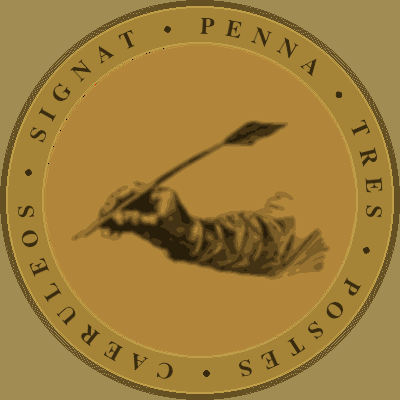
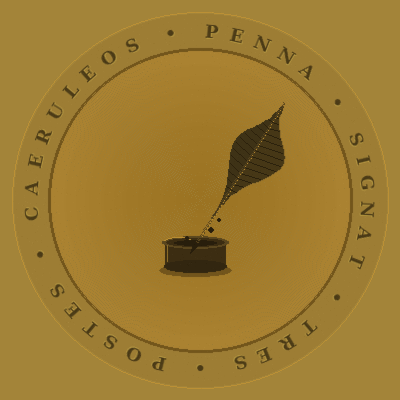
Ending update

diff --git a/Dream Street Shuffle.html b/Dream Street Shuffle.html
@@ -3348,6 +3348,18 @@ animation: coinReveal 0.6s ease 2.2s forwards;
 }
 @keyframes coinReveal {
 to { opacity: 1; }
+}
+
+/* ===== WHITE PAGE (good ending) ===== */
+tw-passage[tags~="white-page"],
+tw-story[tags~="white-page"] {
+  background: #fff !important;
+  color: #111 !important;
+}
+tw-passage[tags~="white-page"] tw-link,
+tw-passage[tags~="white-page"] .enchantment-link {
+  color: #111 !important;
+  border-bottom-color: #111 !important;
 }</style><script role="script" id="twine-user-script" type="text/twine-javascript">// ====== BROWSER BACK BUTTON (PLAYTESTING) ======
 var _dssLastPassage = '';
 setInterval(function() {
@@ -71140,8 +71152,9 @@ Steve Lackland gave you a password: //Valletta//. For Lackland&#x27;s back room.
 &lt;/div&gt;</tw-passagedata>
 <tw-passagedata pid="11" name="A Doorway on Dean Street" position="700,550" size="100,100">(set: $hadBreather to true)\
 (set: $confidence to $confidence + 12)\
-[placeholder]
-[[Dream On|Dean Street]]</tw-passagedata>
+The coast is clear so you spew up your guts with the tact of a bulimic starlette. Well done. You feel much better for that.
+
+[[Back to Dean Street|Dean Street]]</tw-passagedata>
 <tw-passagedata pid="12" name="Alba Display" position="900,50" size="100,100">(if: $albaRevealed is true)[\
 (set: _count to 0)\
 (if: $alba contains $alba1)[(set: _count to _count + 1)]
@@ -71260,6 +71273,9 @@ You surface into Dean Street like the ascent of man, having something, at least,
 
 [[Dean Street|Dean Street]]
 &lt;/div&gt;</tw-passagedata>
+<tw-passagedata pid="113" name="White page" tags="white-page" position="1700,150" size="100,100">EXPLICIT LIBER EST.
+
+[[PLUS. ULTRA.|Dawn]]</tw-passagedata>
 <tw-passagedata pid="25" name="Black page" position="1700,200" size="100,100">EXPLICIT LIBER EST.
 
 [[PLUS. ULTRA.|Dawn]]</tw-passagedata>
@@ -71461,12 +71477,15 @@ Quiet Frankie still hasn&#x27;t looked up but Ashton Granger has; she stops dood
 [[Try to run for the stairs|Fight starts]]
 [[Stand your ground|Stand your ground]]
 &lt;/div&gt;</tw-passagedata>
+<tw-passagedata pid="112" name="Alba Complete" position="1550,50" size="100,100">[placeholder]
+
+[[Approach the tower|Approach Centre Point]]</tw-passagedata>
 <tw-passagedata pid="39" name="Late Lily" position="1600,50" size="100,100">You see yourself walking to meet you, he looks at you, with a pitying grin, then turns and heads, quickly, towards Centre Point.
 
 [[Follow him|Approach Centre Point]]</tw-passagedata>
-<tw-passagedata pid="40" name="Centre Point" position="1650,75" size="100,100">*
+<tw-passagedata pid="40" name="Centre Point" position="1650,75" size="100,100">(if: ($alba contains $alba1) and ($alba contains $alba2) and ($alba contains $alba3))[(goto: &quot;White page&quot;)](else:)[*
 
-[[Go to Dawn|Dawn]]</tw-passagedata>
+[[Go to Dawn|Dawn]]]</tw-passagedata>
 <tw-passagedata pid="41" name="Dawn" position="1700,100" size="100,100">(if: ($alba contains $alba1) and ($alba contains $alba2) and ($alba contains $alba3))[It is as if you&#x27;ve woken from anaesthetic.
 
 You are standing at the corner of Dean Street and Old Compton Street, watching the light change again like it hasn&#x27;t changed for a whole black night. The plane of the eastern sky is cobalt first, then brassy and, at length, light in matter and in aspect, like a lifted weight.
@@ -71520,7 +71539,7 @@ Go home, boy.
 (if: $sobriety &gt; 100)[(set: $sobriety to 100)]
 (if: $sobriety &lt; 0)[(set: $sobriety to 0)]
 (if: $sobriety &lt;= 0 and $haunts&#x27;s length &gt;= 3)[(set: $coachUrgent to true)](else-if: $sobriety &lt;= 0)[(set: $sobriety to 5)//You stagger. Nearly fell. Catch yourself on a lamppost. The street blurs then steadies. You need to keep it together.//]
-(if: $confidence &lt;= 5 and not (($alba contains $alba1) and ($alba contains $alba2) and ($alba contains $alba3)))[[[Give up on the book|No more]]]
+(set: _towerReady to ($alba contains $alba1) and ($alba contains $alba2) and ($alba contains $alba3))\
 (if: $wasBeaten is true and $visitedInterval is true)[&lt;span class=&quot;fetch-glimpse&quot;&gt;You see him then: yourself, walking ahead of you down Greek Street toward Centre Point. He does not look back. He walks the way a man walks when he has made a decision. You know where he is going. You have always known.&lt;/span&gt;]
 (if: $returns &gt;= 7 and $afterMidnight is false)[(set: $afterMidnight to true)]
 }
@@ -71538,55 +71557,56 @@ In your bag, you have //(print: $bookTitle)//, your novel, in manuscript. You ne
 (if: $haunts&#x27;s length &gt;= 5)[Something shifts again. Eyes meet you and doors open like they used to. Keep on.
 ](else-if: $haunts&#x27;s length &gt;= 3)[Something shifts. The faces start to know your face again. A girl at the French waves through the reeded glass. It&#x27;s beginning to let you in.
 ](if: $metRed is true)[\
-(if: $coachUrgent is true)[&lt;div class=&quot;choice-box&quot;&gt;You can&#x27;t see straight. The pavement sways beneath you like the deck of a ship. There is only one door you can find.
+(if: _towerReady)[&lt;div class=&quot;choice-box&quot;&gt;&lt;span class=&quot;guided-link&quot;&gt;[[The dawn is coming|Alba Complete]]&lt;/span&gt;&lt;/div&gt;](else-if: $coachUrgent is true)[&lt;div class=&quot;choice-box&quot;&gt;You can&#x27;t see straight. The pavement sways beneath you like the deck of a ship. There is only one door you can find.
 
 &lt;span class=&quot;guided-link&quot;&gt;[[The Coach and Horses|Coach and Horses lock]]&lt;/span&gt;&lt;/div&gt;](else:)[Where now?]
-(if: $coachUrgent is false and not ($haunts contains $haunt2))[[[To The French|Approach The French]]
-](if: $coachUrgent is false and ($haunts contains $haunt2))[&lt;span class=&quot;greyed-out&quot;&gt;The French &amp;#91;DONE FOR TONIGHT&amp;#93;&lt;/span&gt;
+(if: $coachUrgent is false and _towerReady is false and not ($haunts contains $haunt2))[[[To The French|Approach The French]]
+](if: $coachUrgent is false and _towerReady is false and ($haunts contains $haunt2))[&lt;span class=&quot;greyed-out&quot;&gt;The French &amp;#91;DONE FOR TONIGHT&amp;#93;&lt;/span&gt;
 ]\
-(if: $coachUrgent is false and $visited&#x27;s French is false and $returns &gt;= 2)[&lt;span class=&quot;greyed-out&quot;&gt;The Colony Room&lt;/span&gt;
+(if: $coachUrgent is false and _towerReady is false and $visited&#x27;s French is false and $returns &gt;= 2)[&lt;span class=&quot;greyed-out&quot;&gt;The Colony Room&lt;/span&gt;
 ]\
-(if: $coachUrgent is false and $visited&#x27;s French is true and $hadPhoneCall is true and $metCritic is false)[[[The Pillars — there was someone you wanted to talk to|Maritime interlude]]
-](else-if: $coachUrgent is false and $visited&#x27;s French is true)[[[To The Pillars of Hercules|Maritime interlude]]
+(if: $coachUrgent is false and _towerReady is false and $visited&#x27;s French is true and $hadPhoneCall is true and $metCritic is false)[[[The Pillars — there was someone you wanted to talk to|Maritime interlude]]
+](else-if: $coachUrgent is false and _towerReady is false and $visited&#x27;s French is true)[[[To The Pillars of Hercules|Maritime interlude]]
 ]\
-(if: $coachUrgent is false and $visited&#x27;s French is true)[[[Try the Colony Room|Approach The Colony Room]]
+(if: $coachUrgent is false and _towerReady is false and $visited&#x27;s French is true)[[[Try the Colony Room|Approach The Colony Room]]
 ]\
-(if: $coachUrgent is false and $knowsRonnies is true and $completedSetlist is false)[[[Hear the jazz at Ronnie Scott&#x27;s|Ronnie Scott&#x27;s]]
+(if: $coachUrgent is false and _towerReady is false and $knowsRonnies is true and $completedSetlist is false)[[[Hear the jazz at Ronnie Scott&#x27;s|Ronnie Scott&#x27;s]]
 ]\
-(if: $coachUrgent is false and $knowsRonnies is true and $completedSetlist is true and ($ronniesLastOrders is false))[(set: $ronniesLastOrders to true)[[Ronnie Scott&#x27;s &amp;#91;LAST ORDERS&amp;#93;|Ronnie Scott&#x27;s]]
+(if: $coachUrgent is false and _towerReady is false and $knowsRonnies is true and $completedSetlist is true and ($ronniesLastOrders is false))[(set: $ronniesLastOrders to true)[[Ronnie Scott&#x27;s &amp;#91;LAST ORDERS&amp;#93;|Ronnie Scott&#x27;s]]
 ]\
-(if: $coachUrgent is false and $knowsRonnies is true and $completedSetlist is true and $ronniesLastOrders is true)[&lt;span class=&quot;greyed-out&quot;&gt;Ronnie Scott&#x27;s &amp;#91;CLOSED&amp;#93;&lt;/span&gt;
+(if: $coachUrgent is false and _towerReady is false and $knowsRonnies is true and $completedSetlist is true and $ronniesLastOrders is true)[&lt;span class=&quot;greyed-out&quot;&gt;Ronnie Scott&#x27;s &amp;#91;CLOSED&amp;#93;&lt;/span&gt;
 ]\
-(if: $coachUrgent is false and $knowsLackland is true and $knowsCopperSecret is true)[[[Go to Lackland&#x27;s Office|Approach Lacklands Office]]
-](else-if: $coachUrgent is false and $knowsLackland is true)[&lt;span class=&quot;greyed-out&quot;&gt;Lackland&#x27;s Office &amp;#91;NOT NOW. TRY ELSEWHERE&amp;#93;&lt;/span&gt;
+(if: $coachUrgent is false and _towerReady is false and $knowsLackland is true and $knowsCopperSecret is true)[[[Go to Lackland&#x27;s Office|Approach Lacklands Office]]
+](else-if: $coachUrgent is false and _towerReady is false and $knowsLackland is true)[&lt;span class=&quot;greyed-out&quot;&gt;Lackland&#x27;s Office &amp;#91;NOT NOW. TRY ELSEWHERE&amp;#93;&lt;/span&gt;
 ]\
-(if: $coachUrgent is false and $knowsCecilCourt is true and $hasMissingPage is true and $returnedPage is false)[[[Return the page to O&#x27;Flatterly|O&#x27;Flatterly introduction]]
-](else-if: $coachUrgent is false and $knowsCecilCourt is true and $knowsAboutPage is true and $returnedPage is false)[[[Cecil Court|Cecil Court]]
-](else-if: $coachUrgent is false and $knowsCecilCourt is true and $returnedPage is false)[[[Visit the antiquarian in Cecil Court|Cecil Court Approach]]
-](if: $coachUrgent is false and $returnedPage is true and ($cecilLastOrders is false))[(set: $cecilLastOrders to true)[[Cecil Court &amp;#91;LAST ORDERS&amp;#93;|Cecil Court]]
+(if: $coachUrgent is false and _towerReady is false and $knowsCecilCourt is true and $hasMissingPage is true and $returnedPage is false)[[[Return the page to O&#x27;Flatterly|O&#x27;Flatterly introduction]]
+](else-if: $coachUrgent is false and _towerReady is false and $knowsCecilCourt is true and $knowsAboutPage is true and $returnedPage is false)[[[Cecil Court|Cecil Court]]
+](else-if: $coachUrgent is false and _towerReady is false and $knowsCecilCourt is true and $returnedPage is false)[[[Visit the antiquarian in Cecil Court|Cecil Court Approach]]
+](if: $coachUrgent is false and _towerReady is false and $returnedPage is true and ($cecilLastOrders is false))[(set: $cecilLastOrders to true)[[Cecil Court &amp;#91;LAST ORDERS&amp;#93;|Cecil Court]]
 ]\
-(if: $coachUrgent is false and $returnedPage is true and $cecilLastOrders is true)[&lt;span class=&quot;greyed-out&quot;&gt;Cecil Court &amp;#91;CLOSED&amp;#93;&lt;/span&gt;
+(if: $coachUrgent is false and _towerReady is false and $returnedPage is true and $cecilLastOrders is true)[&lt;span class=&quot;greyed-out&quot;&gt;Cecil Court &amp;#91;CLOSED&amp;#93;&lt;/span&gt;
 ]\
-(if: $coachUrgent is false and $hasTrishaMatchbook is true and not ($haunts contains $haunt8))[[[Try Trisha&#x27;s|Failure: Trisha&#x27;s]]
-](if: $coachUrgent is false and ($haunts contains $haunt8) and ($trishasLastOrders is false))[(set: $trishasLastOrders to true)[[Trisha&#x27;s &amp;#91;LAST ORDERS&amp;#93;|Failure: Trisha&#x27;s]]
+(if: $coachUrgent is false and _towerReady is false and $hasTrishaMatchbook is true and not ($haunts contains $haunt8))[[[Try Trisha&#x27;s|Failure: Trisha&#x27;s]]
+](if: $coachUrgent is false and _towerReady is false and ($haunts contains $haunt8) and ($trishasLastOrders is false))[(set: $trishasLastOrders to true)[[Trisha&#x27;s &amp;#91;LAST ORDERS&amp;#93;|Failure: Trisha&#x27;s]]
 ]\
-(if: $coachUrgent is false and ($haunts contains $haunt8) and $trishasLastOrders is true)[&lt;span class=&quot;greyed-out&quot;&gt;Trisha&#x27;s &amp;#91;CLOSED&amp;#93;&lt;/span&gt;
+(if: $coachUrgent is false and _towerReady is false and ($haunts contains $haunt8) and $trishasLastOrders is true)[&lt;span class=&quot;greyed-out&quot;&gt;Trisha&#x27;s &amp;#91;CLOSED&amp;#93;&lt;/span&gt;
 ]\
-(if: ($alba contains $alba1) and ($alba contains $alba2) and not ($alba contains $alba3))[&lt;div class=&quot;choice-box&quot;&gt;&lt;span class=&quot;guided-link&quot;&gt;[[The voice|Late Lily]]&lt;/span&gt;&lt;/div&gt;
+(if: _towerReady is false and $coachUrgent is false and ($alba contains $alba1) and ($alba contains $alba2) and not ($alba contains $alba3))[&lt;div class=&quot;choice-box&quot;&gt;&lt;span class=&quot;guided-link&quot;&gt;[[The voice|Late Lily]]&lt;/span&gt;&lt;/div&gt;
 ]]
-(else:)[Someone&#x27;s on the corner.
+(else-if: _towerReady is false and $coachUrgent is false)[Someone&#x27;s on the corner.
 
 [[See who&#x27;s there|Approach The Ginger Light]]]
-(if: $confidence &lt; 40 and $hadBreather is false and $visited&#x27;s Pillars is true)[&lt;div class=&quot;choice-box&quot;&gt;You&#x27;re feeling worn down. There&#x27;s a quiet doorway nearby.
+(if: _towerReady is false and $coachUrgent is false and $confidence &lt; 40 and $hadBreather is false and $visited&#x27;s Pillars is true)[&lt;div class=&quot;choice-box&quot;&gt;You&#x27;re feeling worn down. There&#x27;s a quiet doorway nearby.
 
-[[Step into the doorway|A Doorway on Dean Street]]&lt;/div&gt;](else-if: $hadBreather is true)[&lt;span class=&quot;greyed-out&quot;&gt;Step into the doorway&lt;/span&gt;
+[[Step into the doorway|A Doorway on Dean Street]]&lt;/div&gt;](else-if: _towerReady is false and $coachUrgent is false and $hadBreather is true)[&lt;span class=&quot;greyed-out&quot;&gt;Step into the doorway&lt;/span&gt;
 ]\
-(if: $confidence &lt; 50 and $sobriety &lt; 50 and $hadChippy is false and ($confidence &gt;= 40 or $hadBreather is true))[&lt;div class=&quot;choice-box&quot;&gt;You&#x27;re in a bad way. But there&#x27;s a place you know, down a side street. The Chinese Fish and Chips.
+(if: _towerReady is false and $coachUrgent is false and $confidence &lt; 50 and $sobriety &lt; 50 and $hadChippy is false and ($confidence &gt;= 40 or $hadBreather is true))[&lt;div class=&quot;choice-box&quot;&gt;You&#x27;re in a bad way. But there&#x27;s a place you know, down a side street. The Chinese Fish and Chips.
 
-[[Get something to eat|Chinese Fish and Chips]]&lt;/div&gt;](else-if: $hadChippy is true)[&lt;span class=&quot;greyed-out&quot;&gt;Get something to eat&lt;/span&gt;
+[[Get something to eat|Chinese Fish and Chips]]&lt;/div&gt;](else-if: _towerReady is false and $coachUrgent is false and $hadChippy is true)[&lt;span class=&quot;greyed-out&quot;&gt;Get something to eat&lt;/span&gt;
 ]\
-(set: $notebookUnlocked to true)\
-(if: ($alba contains $alba1) and ($alba contains $alba2) and ($alba contains $alba3))[[[Go to Dawn|Dawn]]]</tw-passagedata>
+(if: _towerReady is false and $coachUrgent is false and $confidence &lt;= 5)[[[Give up on the night|No more]]
+]\
+(set: $notebookUnlocked to true)\</tw-passagedata>
 <tw-passagedata pid="43" name="Dido" position="100,1700" size="100,100">&lt;svg class=&quot;carthage-pyre&quot; viewBox=&quot;0 0 500 95&quot; width=&quot;100%&quot; height=&quot;95&quot; preserveAspectRatio=&quot;none&quot;&gt;&lt;defs&gt;&lt;radialGradient id=&quot;cpGlow&quot; cx=&quot;50%&quot; cy=&quot;85%&quot; r=&quot;70%&quot;&gt;&lt;stop offset=&quot;0%&quot; stop-color=&quot;#d4600a&quot; stop-opacity=&quot;0.4&quot;/&gt;&lt;stop offset=&quot;30%&quot; stop-color=&quot;#c84a08&quot; stop-opacity=&quot;0.2&quot;/&gt;&lt;stop offset=&quot;60%&quot; stop-color=&quot;#401808&quot; stop-opacity=&quot;0.08&quot;/&gt;&lt;stop offset=&quot;100%&quot; stop-color=&quot;#0a0a12&quot; stop-opacity=&quot;0&quot;/&gt;&lt;/radialGradient&gt;&lt;linearGradient id=&quot;cpTopFade&quot; x1=&quot;0&quot; y1=&quot;0&quot; x2=&quot;0&quot; y2=&quot;1&quot;&gt;&lt;stop offset=&quot;0%&quot; stop-color=&quot;#0a0a12&quot; stop-opacity=&quot;1&quot;/&gt;&lt;stop offset=&quot;35%&quot; stop-color=&quot;#0a0a12&quot; stop-opacity=&quot;0.6&quot;/&gt;&lt;stop offset=&quot;60%&quot; stop-color=&quot;#0a0a12&quot; stop-opacity=&quot;0&quot;/&gt;&lt;stop offset=&quot;100%&quot; stop-color=&quot;#0a0a12&quot; stop-opacity=&quot;0&quot;/&gt;&lt;/linearGradient&gt;&lt;linearGradient id=&quot;cpFade&quot; x1=&quot;0&quot; x2=&quot;1&quot;&gt;&lt;stop offset=&quot;0%&quot; stop-color=&quot;#0a0a12&quot; stop-opacity=&quot;1&quot;/&gt;&lt;stop offset=&quot;8%&quot; stop-color=&quot;#0a0a12&quot; stop-opacity=&quot;0&quot;/&gt;&lt;stop offset=&quot;92%&quot; stop-color=&quot;#0a0a12&quot; stop-opacity=&quot;0&quot;/&gt;&lt;stop offset=&quot;100%&quot; stop-color=&quot;#0a0a12&quot; stop-opacity=&quot;1&quot;/&gt;&lt;/linearGradient&gt;&lt;linearGradient id=&quot;cpGround&quot; x1=&quot;0&quot; y1=&quot;0&quot; x2=&quot;0&quot; y2=&quot;1&quot;&gt;&lt;stop offset=&quot;0%&quot; stop-color=&quot;#3a2010&quot; stop-opacity=&quot;0.5&quot;/&gt;&lt;stop offset=&quot;100%&quot; stop-color=&quot;#1a0a08&quot; stop-opacity=&quot;0.3&quot;/&gt;&lt;/linearGradient&gt;&lt;/defs&gt;&lt;rect x=&quot;0&quot; y=&quot;77&quot; width=&quot;500&quot; height=&quot;18&quot; fill=&quot;url(#cpGround)&quot;/&gt;&lt;rect x=&quot;0&quot; y=&quot;0&quot; width=&quot;500&quot; height=&quot;95&quot; fill=&quot;url(#cpGlow)&quot;/&gt;&lt;rect x=&quot;195&quot; y=&quot;77&quot; width=&quot;110&quot; height=&quot;6&quot; rx=&quot;1&quot; fill=&quot;#3a2818&quot; opacity=&quot;0.6&quot;/&gt;&lt;rect x=&quot;205&quot; y=&quot;72&quot; width=&quot;90&quot; height=&quot;6&quot; rx=&quot;1&quot; fill=&quot;#4a3020&quot; opacity=&quot;0.5&quot;/&gt;&lt;rect x=&quot;215&quot; y=&quot;67&quot; width=&quot;70&quot; height=&quot;6&quot; rx=&quot;1&quot; fill=&quot;#5a3828&quot; opacity=&quot;0.45&quot;/&gt;&lt;path d=&quot;M220,67 Q210,50 225,28 Q230,40 240,18 Q248,35 250,8 Q255,30 262,14 Q268,38 275,22 Q280,45 285,67Z&quot; fill=&quot;#8a2800&quot; opacity=&quot;0.35&quot;/&gt;&lt;path d=&quot;M225,67 Q218,48 232,22 Q238,36 245,10 Q250,28 255,6 Q260,25 268,16 Q272,40 278,67Z&quot; fill=&quot;#c04808&quot; opacity=&quot;0.45&quot;/&gt;&lt;path d=&quot;M230,67 Q224,45 237,18 Q242,32 248,8 Q253,28 258,12 Q264,35 270,67Z&quot; fill=&quot;#d4600a&quot; opacity=&quot;0.5&quot;/&gt;&lt;path d=&quot;M235,67 Q230,42 242,20 Q246,34 250,12 Q254,30 258,18 Q262,40 265,67Z&quot; fill=&quot;#e88020&quot; opacity=&quot;0.5&quot;/&gt;&lt;path d=&quot;M240,67 Q237,44 246,24 Q249,36 252,18 Q255,34 258,26 Q259,42 260,67Z&quot; fill=&quot;#ffa040&quot; opacity=&quot;0.45&quot;/&gt;&lt;path d=&quot;M245,67 Q243,48 249,30 Q251,42 253,34 Q254,48 255,67Z&quot; fill=&quot;#ffc868&quot; opacity=&quot;0.4&quot;/&gt;&lt;path d=&quot;M222,67 Q216,52 224,35 Q228,45 230,38 Q229,50 232,67Z&quot; fill=&quot;#c04808&quot; opacity=&quot;0.3&quot;/&gt;&lt;path d=&quot;M268,67 Q272,50 276,32 Q274,44 278,40 Q276,52 275,67Z&quot; fill=&quot;#c04808&quot; opacity=&quot;0.3&quot;/&gt;&lt;circle cx=&quot;228&quot; cy=&quot;61&quot; r=&quot;4.5&quot; fill=&quot;#1a0a06&quot; opacity=&quot;0.55&quot;/&gt;&lt;rect x=&quot;232&quot; y=&quot;63&quot; width=&quot;32&quot; height=&quot;3&quot; rx=&quot;1&quot; fill=&quot;#1a0a06&quot; opacity=&quot;0.5&quot;/&gt;&lt;path d=&quot;M264,63 L266,63 L266,58 L264,58 Z&quot; fill=&quot;#1a0a06&quot; opacity=&quot;0.5&quot;/&gt;&lt;path d=&quot;M267,63 L269,63 L269,59 L267,59 Z&quot; fill=&quot;#1a0a06&quot; opacity=&quot;0.45&quot;/&gt;&lt;circle cx=&quot;245&quot; cy=&quot;4&quot; r=&quot;0.8&quot; fill=&quot;#ffa030&quot; opacity=&quot;0.4&quot;/&gt;&lt;circle cx=&quot;260&quot; cy=&quot;7&quot; r=&quot;0.6&quot; fill=&quot;#ff8020&quot; opacity=&quot;0.35&quot;/&gt;&lt;circle cx=&quot;238&quot; cy=&quot;10&quot; r=&quot;0.7&quot; fill=&quot;#ffc050&quot; opacity=&quot;0.4&quot;/&gt;&lt;circle cx=&quot;268&quot; cy=&quot;3&quot; r=&quot;0.5&quot; fill=&quot;#ff6010&quot; opacity=&quot;0.3&quot;/&gt;&lt;circle cx=&quot;252&quot; cy=&quot;2&quot; r=&quot;0.6&quot; fill=&quot;#ffc050&quot; opacity=&quot;0.35&quot;/&gt;&lt;circle cx=&quot;230&quot; cy=&quot;6&quot; r=&quot;0.5&quot; fill=&quot;#ff8020&quot; opacity=&quot;0.3&quot;/&gt;&lt;circle cx=&quot;272&quot; cy=&quot;12&quot; r=&quot;0.9&quot; fill=&quot;#ffa030&quot; opacity=&quot;0.35&quot;/&gt;&lt;circle cx=&quot;242&quot; cy=&quot;16&quot; r=&quot;0.5&quot; fill=&quot;#ffc050&quot; opacity=&quot;0.3&quot;/&gt;&lt;circle cx=&quot;256&quot; cy=&quot;14&quot; r=&quot;0.4&quot; fill=&quot;#ff6010&quot; opacity=&quot;0.25&quot;/&gt;&lt;rect x=&quot;80&quot; y=&quot;30&quot; width=&quot;5&quot; height=&quot;47&quot; fill=&quot;#705848&quot; opacity=&quot;0.45&quot;/&gt;&lt;rect x=&quot;78&quot; y=&quot;28&quot; width=&quot;9&quot; height=&quot;3&quot; rx=&quot;0.5&quot; fill=&quot;#806858&quot; opacity=&quot;0.5&quot;/&gt;&lt;path d=&quot;M82,45 L84,55&quot; stroke=&quot;#3a2010&quot; stroke-width=&quot;0.8&quot; opacity=&quot;0.4&quot;/&gt;&lt;rect x=&quot;70&quot; y=&quot;74&quot; width=&quot;9&quot; height=&quot;4&quot; rx=&quot;1&quot; fill=&quot;#705848&quot; opacity=&quot;0.3&quot; transform=&quot;rotate(-15,74,76)&quot;/&gt;&lt;rect x=&quot;405&quot; y=&quot;22&quot; width=&quot;6&quot; height=&quot;55&quot; fill=&quot;#705848&quot; opacity=&quot;0.4&quot;/&gt;&lt;rect x=&quot;402&quot; y=&quot;20&quot; width=&quot;12&quot; height=&quot;3&quot; rx=&quot;0.5&quot; fill=&quot;#806858&quot; opacity=&quot;0.45&quot;/&gt;&lt;path d=&quot;M408,35 Q410,42 407,50 Q410,58 408,65&quot; fill=&quot;none&quot; stroke=&quot;#d4600a&quot; stroke-width=&quot;0.4&quot; opacity=&quot;0.2&quot;/&gt;&lt;path d=&quot;M415,72 Q420,65 430,72&quot; fill=&quot;none&quot; stroke=&quot;#705848&quot; stroke-width=&quot;1.5&quot; opacity=&quot;0.3&quot;/&gt;&lt;rect x=&quot;140&quot; y=&quot;48&quot; width=&quot;3&quot; height=&quot;29&quot; fill=&quot;#503828&quot; opacity=&quot;0.25&quot;/&gt;&lt;rect x=&quot;350&quot; y=&quot;42&quot; width=&quot;3&quot; height=&quot;35&quot; fill=&quot;#503828&quot; opacity=&quot;0.2&quot;/&gt;&lt;path d=&quot;M348,42 L356,42&quot; stroke=&quot;#503828&quot; stroke-width=&quot;0.8&quot; opacity=&quot;0.15&quot;/&gt;&lt;circle cx=&quot;180&quot; cy=&quot;82&quot; r=&quot;0.8&quot; fill=&quot;#d4600a&quot; opacity=&quot;0.25&quot;/&gt;&lt;circle cx=&quot;320&quot; cy=&quot;80&quot; r=&quot;0.6&quot; fill=&quot;#c84a08&quot; opacity=&quot;0.2&quot;/&gt;&lt;circle cx=&quot;160&quot; cy=&quot;84&quot; r=&quot;0.5&quot; fill=&quot;#ff8020&quot; opacity=&quot;0.15&quot;/&gt;&lt;circle cx=&quot;340&quot; cy=&quot;83&quot; r=&quot;0.7&quot; fill=&quot;#d4600a&quot; opacity=&quot;0.2&quot;/&gt;&lt;rect x=&quot;0&quot; y=&quot;0&quot; width=&quot;500&quot; height=&quot;95&quot; fill=&quot;url(#cpTopFade)&quot;/&gt;&lt;rect x=&quot;0&quot; y=&quot;0&quot; width=&quot;500&quot; height=&quot;95&quot; fill=&quot;url(#cpFade)&quot;/&gt;&lt;/svg&gt;
 
 On the pyre, Dido is burning where she has burnt for 2,000 years.
@@ -71662,7 +71682,9 @@ Hobson has supt, and &#x27;s newly gon to bed.
 &lt;div class=&quot;lore-box&quot;&gt;
 &lt;strong&gt;⟡ THE GREAT HAM ⟡&lt;/strong&gt;
 
-[placeholder]
+&#x27;&#x27;Editor&#x27;s note:&#x27;&#x27;
+When Dr. Johnson, the harmless drudge and titan nonpareil among the London&#x27;s literati in the mid-eighteenth century, was at the height of his powers, he was called the Great Cham. (Cham being a variant of Khan, that is: supreme leader).
+When Ian Hamilton occupied a similar position, two centuries later, nobody (I am sadly but reliably informed) bestowed on him the obvious sobriquet. Here I intend to fix that.
 &lt;/div&gt;
 [[Talk to The Great Ham|Talk to the critic]]](else:)[[[Talk to the halfcut literary critic|Talk to the critic]]]]
 &lt;/div&gt;</tw-passagedata>
@@ -74747,7 +74769,7 @@ Being high and solitary and most stern&lt;/div&gt;
 
 [[Walk on|LINE 1]]
 &lt;/div&gt;</tw-passagedata>
-<tw-passagedata pid="161" name="header header" tags="header" position="700,50" size="100,100">(set: _hideStats to (a: &quot;Black page&quot;, &quot;Title&quot;, &quot;Start&quot;, &quot;Dawn&quot;, &quot;PP Pong&quot;, &quot;Fight starts&quot;, &quot;Fight Round 1&quot;, &quot;Fight Round 2&quot;, &quot;Fight Round 3&quot;, &quot;Fight R1 Back&quot;, &quot;Fight R1 Block&quot;, &quot;Fight R1 Duck&quot;, &quot;Fight R2 Catch&quot;, &quot;Fight R2 Counter&quot;, &quot;Fight R2 Slip&quot;, &quot;Fight R3 Clinch&quot;, &quot;Fight R3 Headon&quot;, &quot;Fight R3 Weave&quot;, &quot;Fight Victory&quot;, &quot;Fight Defeat&quot;))
+<tw-passagedata pid="161" name="header header" tags="header" position="700,50" size="100,100">(set: _hideStats to (a: &quot;White page&quot;, &quot;Black page&quot;, &quot;Title&quot;, &quot;Start&quot;, &quot;Dawn&quot;, &quot;PP Pong&quot;, &quot;Fight starts&quot;, &quot;Fight Round 1&quot;, &quot;Fight Round 2&quot;, &quot;Fight Round 3&quot;, &quot;Fight R1 Back&quot;, &quot;Fight R1 Block&quot;, &quot;Fight R1 Duck&quot;, &quot;Fight R2 Catch&quot;, &quot;Fight R2 Counter&quot;, &quot;Fight R2 Slip&quot;, &quot;Fight R3 Clinch&quot;, &quot;Fight R3 Headon&quot;, &quot;Fight R3 Weave&quot;, &quot;Fight Victory&quot;, &quot;Fight Defeat&quot;))
 (unless: _hideStats contains (passage:)&#x27;s name)[\
 (if: $confidence is a number and $confidence &lt; 0)[(set: $confidence to 0)](if: $confidence is a number and $confidence &gt; 100)[(set: $confidence to 100)](if: $sobriety is a number and $sobriety &lt; 0)[(set: $sobriety to 0)](if: $sobriety is a number and $sobriety &gt; 100)[(set: $sobriety to 100)]\
 (if: $haunts is an array)[\

diff --git a/Playtest Notes - March 2026.md b/Playtest Notes - March 2026.md
@@ -1,0 +1,143 @@
+# Dream Street Shuffle — Playtest Notes
+
+**Date:** 17 March 2026
+**Tester:** Claude (automated playthrough)
+**Version:** Current build
+**Path taken:** Dean Street → The French → The Pillars of Hercules → The Colony Room → Cecil Court → Doorway (dead end)
+
+---
+
+## CRITICAL ISSUES
+
+### 1. Dead End — "A Doorway on Dean Street" passage
+**Severity: GAME-BREAKING**
+
+When morale drops low enough, a prompt appears on the Dean Street hub: "You're feeling worn down. There's a quiet doorway nearby." Clicking "Step into the doorway" leads to a passage that shows only the title "Dream On" and a completely blank/black page. There are no links, no text, and no way to continue or go back. The player is permanently stuck and must restart the entire game. This passage is marked `[placeholder]` in the source.
+
+**Recommendation:** Either hide this option until the passage is written, or add a temporary "Back to Dean Street" link so players aren't trapped.
+
+### 2. Revisitable Venues — No Change on Return
+**Severity: MEDIUM**
+
+All venues remain fully clickable on the Dean Street hub even after visiting them. The French, The Pillars of Hercules, and Try the Colony Room all show the same link text after visiting. Cecil Court does shorten from "Visit the antiquarian in Cecil Court" to just "Cecil Court" after the first visit (good!), but the other three don't change.
+
+If revisiting is intended, the passages should ideally acknowledge the return ("You're back at The French..."). If revisiting isn't intended, the links should be greyed out, removed, or marked as visited. Currently it's ambiguous whether the player is meant to revisit or not.
+
+### 3. Placeholder Passages Still in Game
+**Severity: HIGH**
+
+The following passages from the Writer's Brief are still placeholders:
+
+- **"A Doorway on Dean Street"** — `[placeholder]` (causes dead end, see #1)
+- **"THE GREAT HAM"** — `[placeholder]` inside a lore-box div (appears when `$metCritic is true`)
+- **"Centre Point"** — Contains only an asterisk `*` (effectively empty)
+
+These need prose written before the game can be considered complete.
+
+---
+
+## CONSISTENCY ISSUES
+
+### 4. "Flip" vs "Toss" Inconsistency
+**Severity: LOW**
+
+The notebook Specials tab correctly says "Toss it" (as recently changed). The coin popup also correctly says "Toss it" on its button. However, the in-passage coin gate buttons all still say **"Flip the Donkey"**. This should be changed to "Toss the Donkey" for consistency, or the notebook should revert to "Flip" — pick one and use it everywhere.
+
+**Locations to update:** Every passage that contains a coin gate button (The Pillars, Colony Room, and any others using the `coinGate` macro).
+
+### 5. Dean Street Hub — Atmosphere Text Doesn't Change
+**Severity: LOW**
+
+Every return to Dean Street shows the same opening text: "A heavy afternoon lingers in rainfall on the pavements though the sky has cleared now and the newborn night is cut with moonshine." Even after visiting multiple venues and having morale/sobriety drop dramatically (from 66%/66% to 19%/18%), the atmosphere description doesn't reflect the protagonist's deteriorating state. Consider adding conditional text based on morale/sobriety levels or visit count.
+
+---
+
+## WRITING & NARRATIVE NOTES
+
+### 6. The French — Strong Scene
+The French House scene with John St. John is well-paced. The dialogue feels authentic, the drinking mechanic works naturally, and the HAUNT COLLECTED "THE DEBT" card is a satisfying payoff. The writing about owing someone a drink — "The fact of kindness ties you to this place" — is excellent thematic work.
+
+### 7. The Pillars of Hercules — Great Atmosphere
+The storm/sea metaphor approach to Greek Street is inspired. The wave-pattern dividers reinforce the theme nicely. "NE. PLUS. ULTRA." is a dramatic moment with good typographic presentation. The literary critic scene (Clegg) has sharp dialogue and the manuscript rejection stings appropriately. The Cecil Court hint feels organic.
+
+### 8. Aoife Phone Call — Effective Emotional Beat
+The phone call at The Pillars works perfectly. The brevity is its strength — broken heating, crying baby, "Later tonight" / "Much later?" — four lines that carry enormous weight. The morale boost (to 70%) followed by immediate guilt-drop (to 58%) is mechanically clever and emotionally right.
+
+**Note:** The phone call only triggers if the player clicked the lily-of-the-valley in the Red encounter. Players who skip that click-to-reveal won't get phone calls, which means they miss a major emotional thread. Consider whether this is intended — it rewards exploration but may leave some players without key story content.
+
+### 9. The Colony Room — Too Many Consecutive Coin Gates
+The Colony Room sequence has three coin gates in rapid succession: Left/Right door → I'm a member/Wrong door → They know me/Give it a try. On my playthrough, the coin sent me to the "wrong door" and then to Trisha's where "They do not know you" — the entire venue experience was: arrive → flip → flip → flip → one line of rejection → back to Dean Street. It felt thin compared to The French and The Pillars, which have full scenes with dialogue and character interaction.
+
+**Recommendation:** Consider giving at least one of these coin-gate paths more narrative substance. Even on the "rejection" path, a paragraph of atmospheric description of the doorway, the street, or the protagonist's reaction would help.
+
+### 10. Cecil Court — Excellent Writing, Missing Haunt
+The Cecil Court / antiquarian scene is beautifully written. The Watkins lore is rich and relevant. The surreal moment with Blavatsky and "the Beast" waltzing is a highlight. O'Flatterly is a memorable character — the dust motes comparison to "slate-grey clouds over Willesden Junction" is perfect.
+
+However, both choice paths show "You missed a haunt" in gold italic text. This message appears at both the "I'll keep an eye out" option AND the "I'll look for it" option. If the player is meant to collect a haunt here, it's unclear what triggers it. The message "You missed a haunt" appearing on both visible options is confusing — is there a hidden interaction I missed?
+
+### 11. Prologue — Text Overflow
+On narrower windows, the typewriter-page text clips on the right edge. Lines like "You've written a book and you've a baby at h..." are cut off. The text container may need `overflow-wrap: break-word` or the content area may need a maximum width with padding.
+
+---
+
+## MECHANICS & UX
+
+### 12. Coin Toss — Working Well
+The coin toss mechanic works smoothly after the recent fixes:
+- Auto-toss from notebook (Specials tab) works — no intermediate "Flip" button
+- Coin popup auto-closes after toss
+- Coin face in notebook updates to match the result (heads/tails)
+- No visible delay between popup closing and image updating
+- Coin gate popups show both options clearly and auto-close after deciding
+
+### 13. Morale/Sobriety Tracking
+The stat bars are visible and update correctly. The cigarette/drink visual metaphor works well. However, at very low levels (19% morale, 18% sobriety), the bars become very small and hard to read on the dark background. Consider adding a colour change (e.g. red tint) when stats are critically low.
+
+### 14. Notebook — Functional
+The notebook button works correctly. The Specials tab shows the coin with "Toss it". Haunts tab shows collected haunts. The notebook is accessible from all passages tested.
+
+### 15. Lore Boxes — Working Well
+Both tested lore boxes (Yeats memory from Red, Watkins from Cecil Court) expand and collapse correctly. The styling is appropriate and distinct from the main text.
+
+---
+
+## QUEST TRACKING
+
+### 16. ALBA Quest
+The "find three poem lines before dawn" quest is introduced early and clearly. One line collected from Red: "AS COOL AS THE PALE WET LEAVES". The quest framing works well. However, through an entire playthrough of 4 venues plus Cecil Court, I only collected one of three lines. It's unclear where the other two lines can be found — are they in venues I haven't tried, or in paths the coin didn't take me to?
+
+### 17. O'Flatterly's Missing Page (Page 47)
+New quest picked up at Cecil Court — find Page 47 of O'Flatterly's manuscript, lost somewhere in Soho. Good setup, but no resolution path was visible in this playthrough. It's unclear if this connects to any existing passages.
+
+---
+
+## ARTWORK
+
+### 18. Exterior Illustrations — Excellent
+Both venue exteriors (The Pillars of Hercules, The Colony Room) are atmospheric and period-appropriate. The Pillars shows the Tudor-style building with the "No7 PILLARS OF HERCULES" sign, period lamp posts, and the "BOOKS & PRINTS" neighbour. The Colony Room shows the iconic red door at a dramatic angle. These add tremendous visual quality.
+
+### 19. Decorative Elements — Effective
+The wave dividers (Pillars), diamond-pattern dividers (Pillars interior), telephone-cord dividers (phone call), and pillar-column borders (Colony Room) all reinforce their respective venue atmospheres. The lantern on Dean Street is a nice recurring motif.
+
+### 20. Coin Images — Working
+Both coin faces display correctly. The new tails (quill-in-inkwell) design matches the heads coin's colour palette. Both show correctly in the notebook and in the toss popup.
+
+---
+
+## SUMMARY OF PRIORITIES
+
+**Must Fix Before Release:**
+1. Doorway dead end (game-breaking)
+2. Write placeholder passages (Doorway, THE GREAT HAM, Centre Point)
+3. "Flip" → "Toss" consistency in coin gate buttons
+
+**Should Fix:**
+4. Colony Room rejection path needs more content
+5. Visited venues should be marked or acknowledged on revisit
+6. Prologue text overflow on narrow windows
+7. Clarify "You missed a haunt" at Cecil Court
+
+**Nice to Have:**
+8. Dean Street hub text varying with morale/visit count
+9. Low-stat visual indicator on morale/sobriety bars
+10. Second ALBA poem line accessibility — ensure all paths can reach at least 2 of 3 lines
